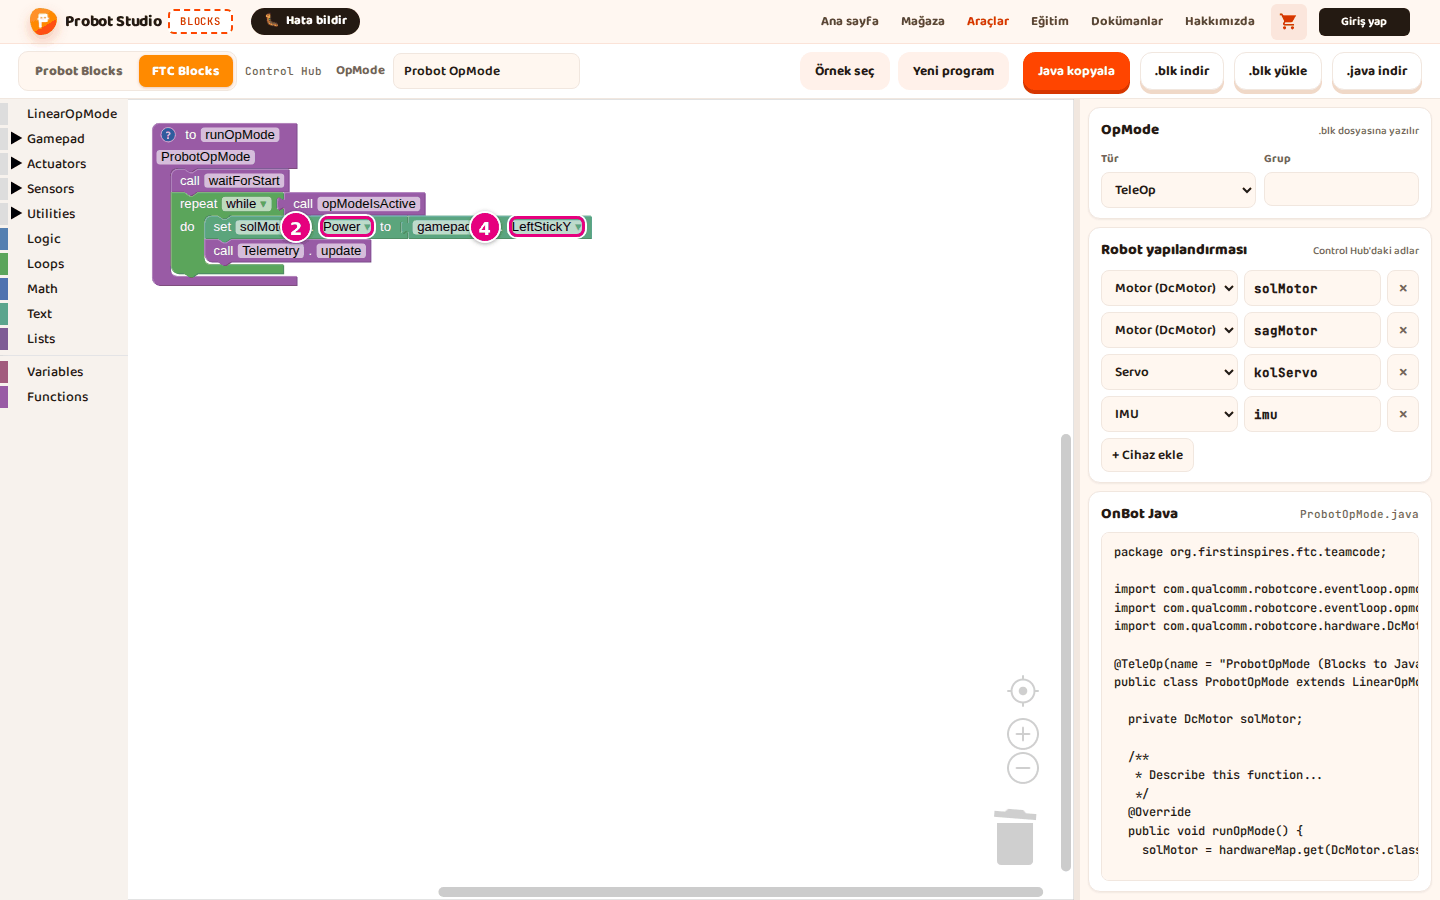
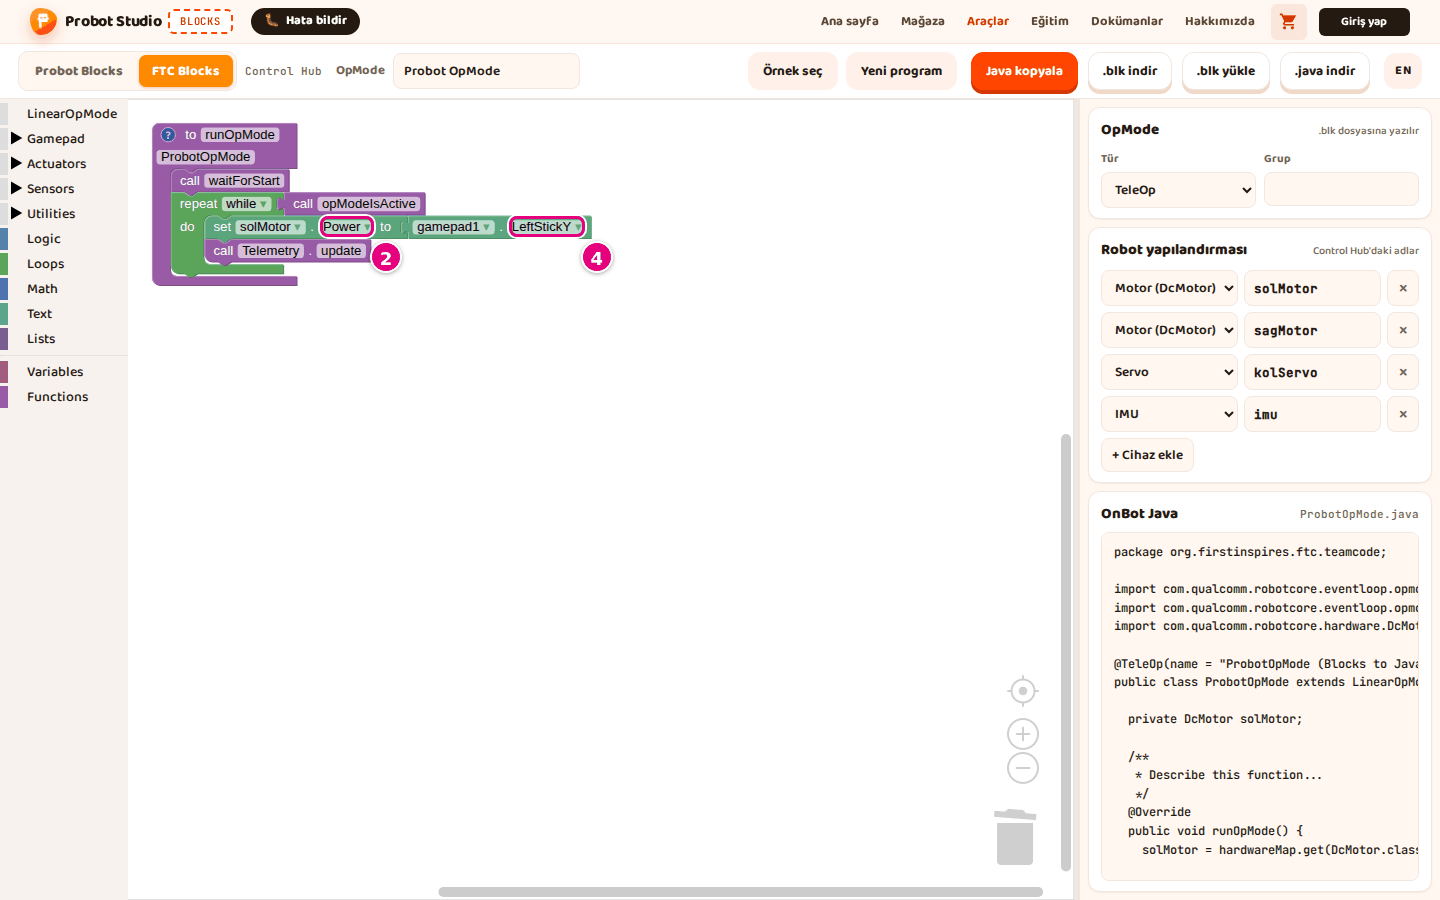
docs(tools/blocks): keep badges off the labels in three screenshots
Frame the whole pasted block stack and move badges that covered block
and category names.

diff --git a/tools/blocks/probot-ftcye-tasi.md b/tools/blocks/probot-ftcye-tasi.md
@@ -41,7 +41,7 @@ kopyalanır. Bloğu Probot'tan kaldırarak taşımak için <kbd>Ctrl</kbd>+<kbd>
 2. Fareyi FTC çalışma alanında bloğun gideceği yere getir ve bir kez tıkla.
 3. <kbd>Ctrl</kbd>+<kbd>V</kbd>'ye bas (Mac'te <kbd>Cmd</kbd>+<kbd>V</kbd>). Bloklar farenin olduğu yere gelir.
    ![FTC çalışma alanı; Probot'tan yapıştırılan bloklar 3 numarayla işaretli.](img/blocks-ftcye-yapistir.png)
-   <!-- CAPTURE: url=https://probotstudio.com/blocks/ | hazirla=ornek:Tank Sürüş, teleopLoop içindeki tank sürüş kopyalandı, FTC Blocks Yeni program | hedef=iframe.ftc-cerceve >> .blocklySvg; text="Robot yapılandırması" | isaret=3 | bekle=text="gamepad1" -->
+   <!-- CAPTURE: url=https://probotstudio.com/blocks/ | hazirla=ornek:Tank Sürüş, teleopLoop içindeki tank sürüş kopyalandı, FTC Blocks Yeni program | hedef=iframe.ftc-cerceve >> .blocklyBlockCanvas > g:has-text("gamepad1") | isaret=3 | bekle=text="gamepad1" -->
    <!-- SAY: FTC sekmesine geçip bloğu farenin olduğu yere yapıştırıyoruz. -->
 4. Yapıştırılan blokları **to runOpMode** bloğunun içinde doğru yere sürükle. Hangi bölümün nereye
    gittiği aşağıdaki tabloda.
